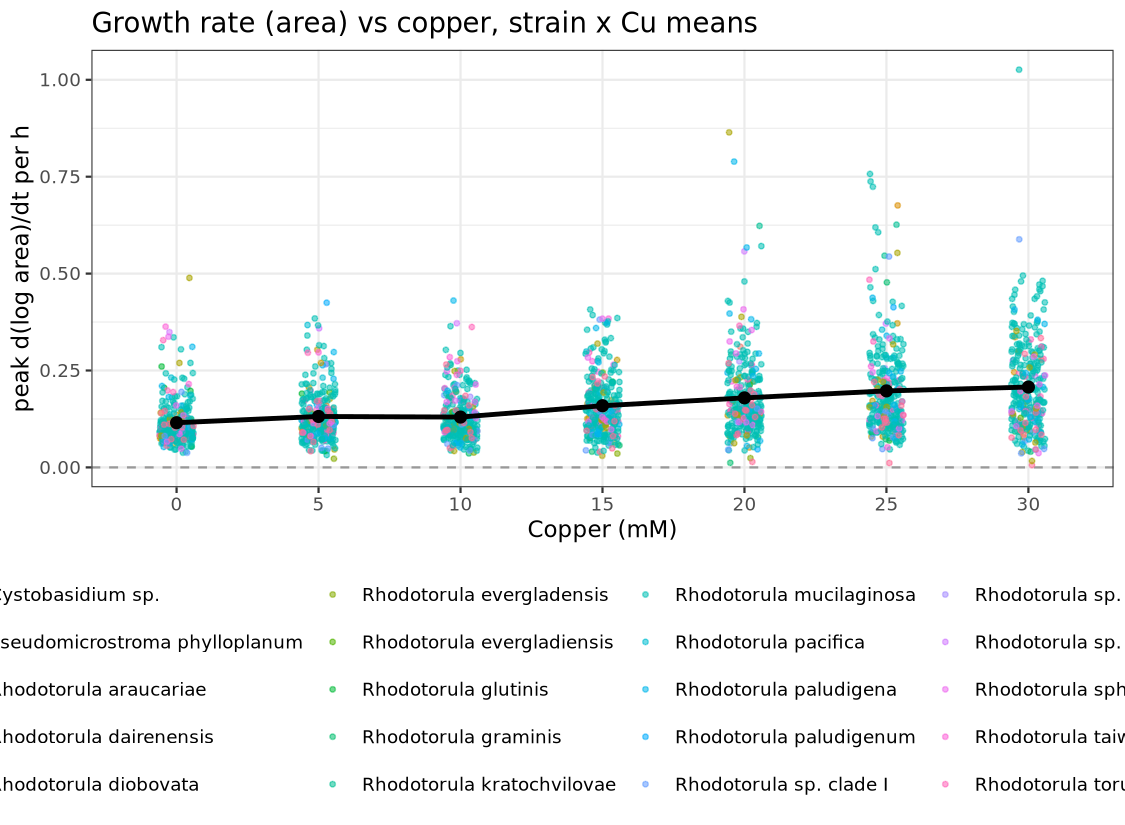
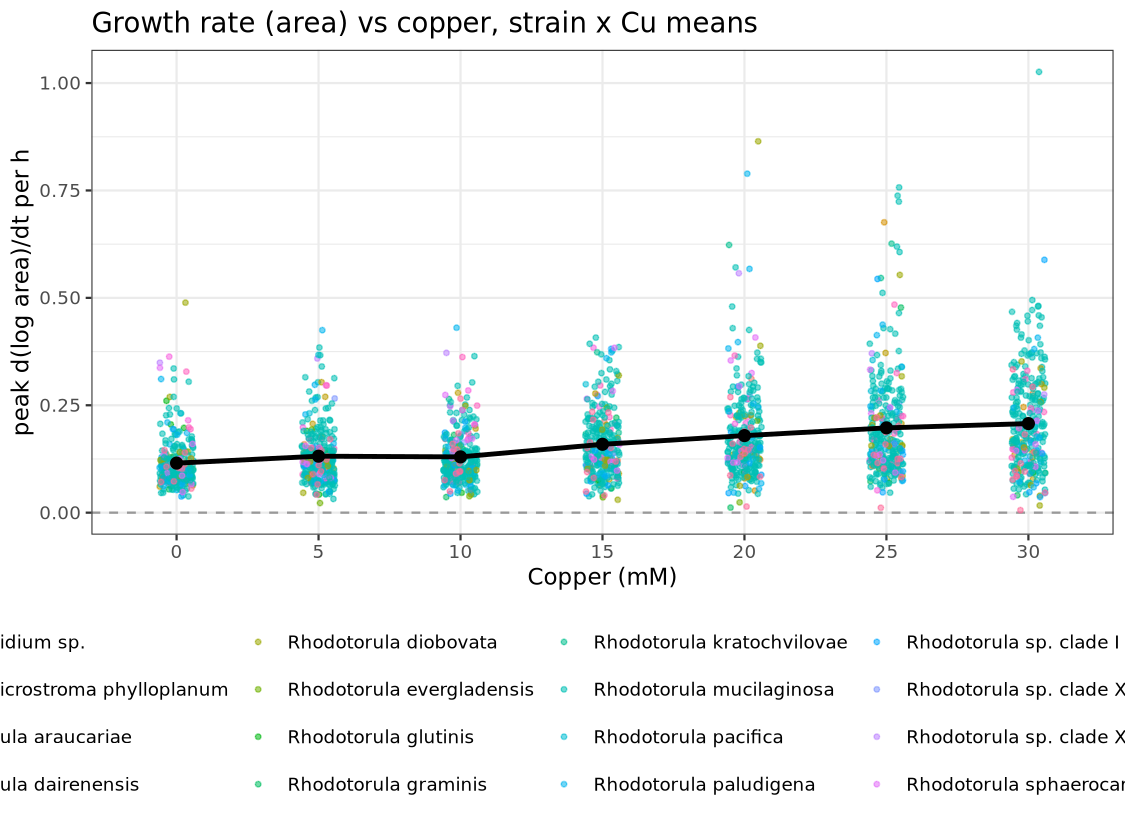
growth rates: propagate species-label corrections; facet top-16 species (4x4) in rate & sensitivity figures
- data/metadata/Copper.Strain_info.csv: fix paludigenum->paludigena (strain 84),
  evergladiensis->evergladensis (strain 327); re-imported into DuckDB
- scripts/db/10_import_experiment.py: strain upsert now DO UPDATE (CSV
  authoritative); add --strain-only sync mode (full re-import is FK-blocked
  once measurements reference imager_run)
- scripts/02,05: fix dead 'R. sp. clade I' filter (was 'R.' prefix, so the
  clade was actually in the interaction model); rate_by_cu_spp, rate_int_by_cu_spp,
  sensitivity_extent_by_cu_spp, sensitivity_saturation_by_cu_spp now facet the
  top-16 species by strain count (4x4 grid) + other/unidentified panel
- regenerate 00-05 + report (html/md/pdf); report/notes updated: paludigena 17
  strains, evergladensis 2, paludigenum value removed from most-sensitive list,
  well-sampled extent model F=4.34 (p~6e-4)
- .living: decision D-4, learning L-7

diff --git a/scripts/db/10_import_experiment.py b/scripts/db/10_import_experiment.py
@@ -51,13 +51,45 @@ def load_plate_run_map(path: str) -> dict[int, tuple[int, int]]:
     }
 
 
+def sync_strain(con, strain_df: pl.DataFrame) -> None:
+    """Upsert the global `strain` table from the strain CSV (CSV authoritative).
+
+    Reruns are idempotent: on a strain_id conflict the metadata columns are
+    refreshed from the CSV, so name/species corrections propagate on re-import.
+    """
+    strain_rows = (
+        strain_df.select(
+            pl.col("Strain ID").alias("strain_id"),
+            pl.col("Strain").alias("strain_code"),
+            pl.col("Strain Name").alias("strain_name"),
+            pl.col("Species").alias("species"),
+            pl.col("Origin").alias("origin"),
+            pl.col("Environment").alias("environment"),
+        )
+        .unique(subset=["strain_id"])
+    )
+    con.execute("CREATE OR REPLACE TEMP TABLE _strain_stage AS SELECT * FROM strain_rows")
+    con.execute(
+        """
+        INSERT INTO strain SELECT * FROM _strain_stage
+        ON CONFLICT (strain_id) DO UPDATE SET
+            strain_code = excluded.strain_code,
+            strain_name = excluded.strain_name,
+            species = excluded.species,
+            origin = excluded.origin,
+            environment = excluded.environment
+        """
+    )
+    print(f"strain: {strain_rows.height} rows staged")
+
+
 def main():
     ap = argparse.ArgumentParser(description=__doc__, formatter_class=argparse.RawDescriptionHelpFormatter)
     ap.add_argument("--db", default=None, help="Path to the DuckDB file (default: db/rhodotorula_phenotypes.duckdb)")
-    ap.add_argument("--experiment-name", required=True)
-    ap.add_argument("--factor-name", required=True, help="e.g. 'Copper concentration', 'Temperature', 'pH'")
+    ap.add_argument("--experiment-name", default=None)
+    ap.add_argument("--factor-name", default=None, help="e.g. 'Copper concentration', 'Temperature', 'pH'")
     ap.add_argument("--factor-unit", default=None, help="e.g. 'mM', 'C', 'pH units'")
-    ap.add_argument("--plate-info-csv", required=True)
+    ap.add_argument("--plate-info-csv", default=None)
     ap.add_argument("--strain-info-csv", required=True)
     ap.add_argument("--plate-number-column", default="Batch Number")
     ap.add_argument("--factor-value-column", default="Concentration (mM)")
@@ -74,6 +106,11 @@ def main():
                      help="CSV with columns plate_number,run_number,configuration -- "
                           "use instead of the block-arithmetic default")
     ap.add_argument("--notes", default=None)
+    ap.add_argument("--strain-only", action="store_true",
+                     help="Sync the global `strain` table from the strain CSV and exit. "
+                          "Use after editing Strain_info.csv (e.g. a species-name fix) without "
+                          "touching imager_run/well_placement, which full re-runs cannot "
+                          "rewrite once measurements reference the runs.")
     args = ap.parse_args()
 
     con = get_connection(args.db)
@@ -87,6 +124,20 @@ def main():
     if n_blank:
         print(f"Dropped {n_blank} fully-blank padding rows from {args.strain_info_csv} "
               f"(Strain ID null) -- {strain_df.height} real strain rows remain")
+
+    if args.strain_only:
+        sync_strain(con, strain_df)
+        con.close()
+        print("Done (strain-only).")
+        return
+
+    missing = [a for a, v in (("--experiment-name", args.experiment_name),
+                              ("--factor-name", args.factor_name),
+                              ("--plate-info-csv", args.plate_info_csv)) if v is None]
+    if missing:
+        con.close()
+        raise SystemExit(f"error: {', '.join(missing)} is required unless --strain-only is set")
+
     plate_df = pl.read_csv(args.plate_info_csv, infer_schema_length=None)
 
     base_run_number = args.base_run_number
@@ -170,26 +221,8 @@ def main():
             [run_number, experiment_id, lp, run_number not in known_run_numbers],
         )
 
-    # --- strain (global, upsert-ignore) --------------------------------------------
-    strain_rows = (
-        strain_df.select(
-            pl.col("Strain ID").alias("strain_id"),
-            pl.col("Strain").alias("strain_code"),
-            pl.col("Strain Name").alias("strain_name"),
-            pl.col("Species").alias("species"),
-            pl.col("Origin").alias("origin"),
-            pl.col("Environment").alias("environment"),
-        )
-        .unique(subset=["strain_id"])
-    )
-    con.execute("CREATE OR REPLACE TEMP TABLE _strain_stage AS SELECT * FROM strain_rows")
-    con.execute(
-        """
-        INSERT INTO strain SELECT * FROM _strain_stage
-        ON CONFLICT (strain_id) DO NOTHING
-        """
-    )
-    print(f"strain: {strain_rows.height} rows staged")
+    # --- strain (global, upsert) --------------------------------------------------
+    sync_strain(con, strain_df)
 
     # --- well_placement --------------------------------------------------------------
     well_rows = strain_df.select(

diff --git a/analysis/growth_rates/growth_rates.md b/analysis/growth_rates/growth_rates.md
@@ -242,14 +242,14 @@ species label).
 
 rate_area: fixed effects (diff vs 0 mM)
 
-| copper_mm |     diff |       se |       lo |       hi | tvalue | pvalue | model    |
-|----------:|---------:|---------:|---------:|---------:|-------:|-------:|:---------|
-|         5 | 0.000631 | 0.000121 | 0.000394 | 0.000867 |   5.23 |  2e-07 | rate_int |
-|        10 | 0.001030 | 0.000122 | 0.000786 | 0.001260 |   8.39 |  0e+00 | rate_int |
-|        15 | 0.001470 | 0.000122 | 0.001230 | 0.001710 |  12.10 |  0e+00 | rate_int |
-|        20 | 0.002400 | 0.000122 | 0.002160 | 0.002630 |  19.60 |  0e+00 | rate_int |
-|        25 | 0.003670 | 0.000123 | 0.003420 | 0.003910 |  29.70 |  0e+00 | rate_int |
-|        30 | 0.005910 | 0.000123 | 0.005670 | 0.006150 |  47.90 |  0e+00 | rate_int |
+| copper_mm |    diff |       se |       lo |       hi | tvalue | pvalue | model    |
+|----------:|--------:|---------:|---------:|---------:|-------:|-------:|:---------|
+|         5 | 0.00063 | 0.000121 | 0.000394 | 0.000867 |   5.23 |  2e-07 | rate_int |
+|        10 | 0.00102 | 0.000122 | 0.000785 | 0.001260 |   8.38 |  0e+00 | rate_int |
+|        15 | 0.00147 | 0.000122 | 0.001230 | 0.001710 |  12.10 |  0e+00 | rate_int |
+|        20 | 0.00240 | 0.000122 | 0.002160 | 0.002630 |  19.60 |  0e+00 | rate_int |
+|        25 | 0.00366 | 0.000123 | 0.003420 | 0.003900 |  29.70 |  0e+00 | rate_int |
+|        30 | 0.00591 | 0.000123 | 0.005670 | 0.006150 |  47.90 |  0e+00 | rate_int |
 
 rate_int vs 0 mM (Wald 95% CI)
 
@@ -267,10 +267,12 @@ observed”.
 
 ![](results/figures/rate_by_cu_spp.png)<!-- -->![](results/figures/rate_int_by_cu_spp.png)<!-- -->
 
-Well-sampled species (\>=8 strains): dairenensis (8), diobovata (10),
-mucilaginosa (216), paludigena (16), sphaerocarpa (8), toruloides (10);
-`R. sp. clade I` excluded from the interaction test (unnamed). The Cu ×
-species interaction test (well-sampled subset) is in
+The species-panel figures facet the top-16 species by strain count (4x4
+grid), plus an “other / unidentified” catch-all panel. Well-sampled
+species (\>=8 strains): dairenensis (8), diobovata (10), mucilaginosa
+(216), paludigena (17), sphaerocarpa (8), toruloides (10);
+`Rhodotorula sp. clade I` excluded from the interaction test (unnamed
+clade). The Cu × species interaction test (well-sampled subset) is in
 `results/tables/rate_models_species_cu.csv/txt`.
 
 ## Doubling-time test: is the copper effect real or a phase artifact?
@@ -326,23 +328,21 @@ fold-change is reported for completeness (~1 expected).
 | species | n_strains | median_extent_ratio | median_log2_extent | median_sat_drop | median_dbl_fold |
 |:---|---:|---:|---:|---:|---:|
 | Rhodotorula kratochvilovae | 3 | 0.0572 | -4.130 | 75.00 | 0.427 |
-| Rhodotorula paludigenum | 1 | 0.0653 | -3.940 | 16.70 | 0.805 |
 | Rhodotorula araucariae | 1 | 0.0779 | -3.680 | 16.10 | 0.805 |
 | Rhodotorula taiwanensis | 6 | 0.1210 | -3.060 | 43.80 | 0.515 |
 | Rhodotorula diobovata | 10 | 0.2510 | -2.000 | 29.20 | 0.810 |
 | Rhodotorula dairenensis | 10 | 0.3800 | -1.520 | 0.00 | 1.090 |
 | Rhodotorula sp. clade XIII | 1 | 0.3590 | -1.480 | 0.00 | 0.986 |
 | Rhodotorula graminis | 4 | 0.3650 | -1.460 | 37.50 | 0.999 |
-| Rhodotorula paludigena | 16 | 0.3790 | -1.400 | 8.75 | 1.050 |
+| Rhodotorula paludigena | 17 | 0.3750 | -1.410 | 12.50 | 1.000 |
 | Rhodotorula sp. clade I | 9 | 0.3920 | -1.350 | 25.00 | 0.972 |
 | Rhodotorula sp. clade XI | 2 | 0.4280 | -1.340 | 18.80 | 1.550 |
 | Cystobasidium sp. | 1 | 0.4600 | -1.120 | 50.00 | 0.874 |
 | Rhodotorula toruloides | 10 | 0.4740 | -1.080 | 16.40 | 0.876 |
 | Rhodotorula sphaerocarpa | 8 | 0.4830 | -1.050 | 9.82 | 1.340 |
 | Rhodotorula mucilaginosa | 217 | 0.6070 | -0.720 | 12.50 | 0.947 |
-| Rhodotorula evergladiensis | 1 | 0.6530 | -0.614 | 0.00 | 1.070 |
+| Rhodotorula evergladensis | 2 | 0.6710 | -0.575 | 14.30 | 0.981 |
 | unknown | 12 | 0.6720 | -0.573 | 12.50 | 0.945 |
-| Rhodotorula evergladensis | 1 | 0.6900 | -0.536 | 28.60 | 0.889 |
 | Pseudomicrostroma phylloplanum | 1 | 0.7640 | -0.388 | 28.60 | 0.919 |
 | Rhodotorula pacifica | 3 | 0.8100 | -0.305 | 12.50 | 1.080 |
 | Rhodotorula glutinis | 3 | 2.0100 | 1.010 | 33.30 | 2.570 |
@@ -353,26 +353,28 @@ sensitive)
 ![](results/figures/sensitivity_species_rank.png)<!-- -->![](results/figures/sensitivity_extent_by_cu_spp.png)<!-- -->![](results/figures/sensitivity_saturation_by_cu_spp.png)<!-- -->
 
 Extent mixed model `log(max_area) ~ Cu x species + (1 | strain_code)` on
-well-sampled species (7,271 colonies): Cu F = 73.0 (p ~ 1.6e-17),
-species F = 29.0, **Cu x species interaction F = 4.35 (p ~ 5.9e-4)** —
+well-sampled species (7,288 colonies): Cu F = 72.9 (p ~ 1.6e-17),
+species F = 30.2, **Cu x species interaction F = 4.34 (p ~ 6.0e-4)** —
 species differ in how copper shrinks final extent.
 
 **Most tolerant (least sensitive):** `R. glutinis` (log2 +1.01), then
 `R. pacifica`, `R. evergladensis`, `Pseudomicrostroma phylloplanum`.
 Among well-sampled taxa, **`R. mucilaginosa` is the most tolerant**
 (log2 = -0.72), then `R. sphaerocarpa` / `R. toruloides` (-1.05/-1.08),
-then `R. paludigena` / `R. dairenensis` (-1.40/-1.52).
+then `R. paludigena` / `R. dairenensis` (-1.41/-1.52).
 
-**Most sensitive:** `R. kratochvilovae` (log2 = -4.13), `R. paludigenum`
-(-3.94), `R. araucariae` (-3.68), `R. taiwanensis` (-3.06); among
-well-sampled, **`R. diobovata` is the most sensitive** (log2 = -2.00).
+**Most sensitive:** `R. kratochvilovae` (log2 = -4.13), `R. araucariae`
+(-3.68), `R. taiwanensis` (-3.06); among well-sampled, **`R. diobovata`
+is the most sensitive** (log2 = -2.00).
 
-*Data-quality note:* the species labels contain apparent near-duplicates
-(`R. paludigenum` vs `R. paludigena`, `R. evergladensis` vs
-`R. evergladiensis`) that were **not** merged — treat single-strain,
-small-n taxa (especially the `R. glutinis` +1.01 and `R. kratochvilovae`
-values, which rest on \<30 colonies) with caution; confirm with
-per-strain tables (`results/tables/strain_sensitivity.csv`).
+*Data-quality note:* two species-name misspellings in the metadata CSV
+(`Rhodotorula paludigenum`, `Rhodotorula evergladiensis`) were corrected
+to `paludigena` / `evergladensis` and re-imported, so strain 84
+(TFCN_43A-0-22) and strain 327 (NRRL_Y-48721) now group with their
+correct species. Small-n, single-strain taxa (especially the
+`R. glutinis` +1.01 and `R. kratochvilovae` values, which rest on \<30
+colonies) still need confirmation — check per-strain tables
+(`results/tables/strain_sensitivity.csv`).
 
 ## Growth-rate × color / light-intensity interaction
 
@@ -387,12 +389,12 @@ analogues)
 
 | term                                  | Estimate | Std..Error | t.value |   Pr…t.. |
 |:--------------------------------------|---------:|-----------:|--------:|---------:|
-| rate_area_ln_area:factor(copper_mm)5  |     3.70 |      0.645 |    5.74 | 0.00e+00 |
-| rate_area_ln_area:factor(copper_mm)10 |     2.91 |      0.688 |    4.23 | 2.41e-05 |
-| rate_area_ln_area:factor(copper_mm)15 |     2.56 |      0.616 |    4.16 | 3.24e-05 |
-| rate_area_ln_area:factor(copper_mm)20 |     1.52 |      0.564 |    2.69 | 7.10e-03 |
-| rate_area_ln_area:factor(copper_mm)25 |     1.78 |      0.547 |    3.25 | 1.15e-03 |
-| rate_area_ln_area:factor(copper_mm)30 |     1.30 |      0.536 |    2.42 | 1.56e-02 |
+| rate_area_ln_area:factor(copper_mm)5  |     3.70 |      0.645 |    5.73 | 0.00e+00 |
+| rate_area_ln_area:factor(copper_mm)10 |     2.90 |      0.688 |    4.22 | 2.44e-05 |
+| rate_area_ln_area:factor(copper_mm)15 |     2.56 |      0.616 |    4.16 | 3.28e-05 |
+| rate_area_ln_area:factor(copper_mm)20 |     1.52 |      0.564 |    2.69 | 7.06e-03 |
+| rate_area_ln_area:factor(copper_mm)25 |     1.78 |      0.547 |    3.25 | 1.16e-03 |
+| rate_area_ln_area:factor(copper_mm)30 |     1.30 |      0.536 |    2.42 | 1.55e-02 |
 
 L\* ~ rate_area x Cu: interaction coefficients
 
@@ -425,9 +427,9 @@ reported in the plate-position analysis. Per-species faceted versions:
   h, fold 0.99 at 30 mM); the copper phenotype is extent/yield-limited
   (saturation 95% -\> 74%, lower max area). Parametric `mu` remains
   unidentifiable in-window.
-- Species labels contain apparent near-duplicates
-  (paludigenum/paludigena, evergladensis/evergladiensis), left unmerged;
-  small-n single-strain taxa need confirmation.
+- Species-name misspellings in the metadata CSV (paludigenum,
+  evergladiensis) have been corrected (paludigena, evergladensis) and
+  re-imported; small-n single-strain taxa still need confirmation.
 - 130 of 2,183 strain-Cu aggregates rest on a single culture (flagged,
   kept).
 - 282 colonies (3.3%) lack a species label -\> `unknown` random-level.

diff --git a/analysis/ANALYSIS_MANIFEST.md b/analysis/ANALYSIS_MANIFEST.md
@@ -52,10 +52,10 @@ input: db/rhodotorula_phenotypes.duckdb (v_phenotype), runs 353-356, per (plate,
 scripts:
   - scripts/00_build_series.R      # per-colony x timepoint table + species join -> colony_growth_series + coverage
   - scripts/01_fit_growth_models.R # Gompertz + Logistic per colony/trait (mu/lambda/A, AIC-preferred), fallback log-linear; primary rate = peak 6 h slope of log(area) [rate_area] and of intensity [rate_int]
-  - scripts/02_species_cu_rates.R  # strain x Cu aggregation (up to 4 run-replicates), mixed models rate ~ Cu(factor) + (1|species/strain), Cu x species interaction (well-sampled spp), contrasts vs 0 mM
+  - scripts/02_species_cu_rates.R  # strain x Cu aggregation (up to 4 run-replicates), mixed models rate ~ Cu(factor) + (1|species/strain), Cu x species interaction (well-sampled spp >= 8 strains, unnamed 'sp. clade I' excluded), contrasts vs 0 mM; rate_by_cu_spp / rate_int_by_cu_spp facet top-16 species (4x4)
   - scripts/03_color_interaction.R # endpoint L*/a*/b* as outcomes of rate_area/rate_int x copper (+ species/strain random); documents L*-Intensity ~0.999 collinearity; also endpoint color (L*/a*/b*) vs Cu plots
   - scripts/04_doubling_time.R     # phase-independent estimator: exponential-region specific rate (best-R2 4-pt window) -> doubling time, t50, saturation fraction; tests whether peak-slope Cu trend persists
-  - scripts/05_species_cu_sensitivity.R # extent/yield-based Cu-sensitivity index per strain & species (log2 max-area ratio 25-30 vs 0-5 mM, saturation drop, dbl fold), species extent model (Cu x species)
+  - scripts/05_species_cu_sensitivity.R # extent/yield-based Cu-sensitivity index per strain & species (log2 max-area ratio 25-30 vs 0-5 mM, saturation drop, dbl fold), species extent model (Cu x species); sensitivity figures facet top-16 species (4x4)
 outputs:
   - results/tables/colony_growth_series.rds/csv
   - results/tables/series_coverage.csv
@@ -102,5 +102,8 @@ key_findings:
   - L* (endpoint) vs Intensity_MeanIntensity r=0.999: same axis; L* is "light intensity"; intensity only used as growth readout.
   - Growth-rate x Cu interaction on endpoint L* significant (F=8.16 p~8e-9): faster-growing colonies end lighter, slope largest at low Cu (5mM +3.7 L*/unit rate) smallest at 30mM (+1.3); Cu dominates chromatic outcome (~1000x F on L*/a*).
   - 8,446 colonies (97.6% of 8,652 design slots; 309 strains, 112 plates); 130/2183 strain-Cu aggregates are single-culture, 282 colonies lack species label (-> unknown level).
+  - Doubling-time test (04): exponential doubling time is flat ~37 h across 0-30 mM (fold-change 0.99 at 30 mM; Kendall tau between peak-slope rate_area and doubling time = 0.002) -> the rising peak-slope with Cu IS A PHASE ARTIFACT. Cu's real effect is extent-limited: saturation fraction 95.4% -> 73.9%, lower max area, median t50 72.6 -> 64.1 h.
+  - Species Cu sensitivity (05, extent-based log2 ratio 25-30/0-5 mM): most tolerant R. glutinis (+1.01) and, among well-sampled, R. mucilaginosa (-0.72); most sensitive R. kratochvilovae (-4.13), R. araucariae (-3.68), R. taiwanensis (-3.06); well-sampled R. diobovata (-2.00). Cu x species interaction on log(max_area) F = 4.34 (p ~ 6.0e-4).
+  - Species mislabels in data/metadata/Copper.Strain_info.csv (paludigenum -> paludigena, evergladiensis -> evergladensis) corrected and re-imported via scripts/db/10_import_experiment.py --strain-only (strain 84 & 327 regrouped).
 tags: [copper, growth-rate, growth-curve, species, mixed-model, lme4, rhodotorula, color, light-intensity, gompertz, logistic, timecourse]
 ```

diff --git a/.living/decisions.md b/.living/decisions.md
@@ -4,6 +4,14 @@ Append-only log of non-obvious decisions and their rationale.
 
 **Entry template:** copy from `skills/core/templates/decision-log-entry.md` (includes Context, Decision, Alternatives considered, Rationale, Consequences, Tags fields).
 
+### [2026-08-15] D-4 — Make strain metadata authoritative over CSV + add `--strain-only` sync to the DB import
+- **Context**: Two species-name misspellings were corrected in `data/metadata/Copper.Strain_info.csv` (`Rhodotorula paludigenum` -> `paludigena`, `Rhodotorula evergladiensis` -> `evergladensis` for strains 84 and 327). The growth-rate analysis joins species from DuckDB `strain`, which had been populated with `ON CONFLICT (strain_id) DO NOTHING`, so the CSV fix did not propagate. A full re-import is impossible in place: measurements reference `imager_run.run_number` via FK, so the imager_run upsert on a populated DB raises a constraint violation.
+- **Decision**: (1) Changed the `strain` upsert to `DO UPDATE SET` for the metadata columns (strain_code, strain_name, species, origin, environment), making the CSV authoritative for strain metadata on re-import; (2) added a `--strain-only` mode to `scripts/db/10_import_experiment.py` that syncs only the global `strain` table from the CSV and exits, avoiding imager_run/well_placement/condition_plate rewrites that FK constraints preclude after measurements load; made experiment-name/factor-name/plate-info-csv optional with a fail-loud guard when not in --strain-only.
+- **Alternatives considered**: Direct one-off `UPDATE` SQL against the two rows (simplest but not reproducible); full DB rebuild from scratch (correct but requires re-importing all 211,800 measurements).
+- **Rationale**: The repository treats the metadata CSVs as source of truth and the DuckDB as a derived store, so sync-on-conflict is the natural semantic; `--strain-only` gives a safe, repeatable path for exactly this class of metadata-correction fix without a full reload.
+- **Consequences**: `strain` rows now refresh from the CSV on any re-import or `--strain-only` run; the analysis pipeline (00-05 + render) was regenerated cleanly with the corrected labels. Minor: curated strain metadata no longer survives a conflicting CSV value (documented trade-off; CSV is authoritative).
+- **Tags**: data, metadata, import, duckdb, strain, copper
+
 ### [2026-08-15] D-3 — Stratify plate-effect variance partition by Copper concentration
 - **Context**: `analysis/explore_plate_position/01_variance_partition.R` estimated a pooled mixed model (`trait ~ copper_mm + grid_row_c + grid_col_c + is_edge + (1|strain_code) + (1|run_number) + (1|plate_id)`) reporting 23% (L*) and 33% (b*) plate-explained variance. Inspection showed `plate_id` is **nested** inside `copper_mm`: every plate was imaged at exactly one Cu level (0 of 112 plates have >1 concentration), so a random slope of Cu within plate is not estimable and the pooled plate term can absorb any non-linear Cu response.
 - **Decision**: Replaced the pooled model with a per-Cu-concentration stratified analysis: fit the variance partition independently within each of the 7 Cu levels (0-30 mM), dropping `copper_mm` (invariant within a stratum), applying the ≥2-plates-per-strain filter within each stratum, plus the categorical row/col robustness check per stratum.

diff --git a/.living/learnings.md b/.living/learnings.md
@@ -51,3 +51,11 @@ Append-only log of gotchas, surprises, and insights.
 - **Resolution**: In Rmds under this repo use doc-relative `results/tables` and keep Unicode to `—` and `×` (what the plate-position report proves pdflatex accepts); else switch the engine. Detect remaining non-ASCII with a quick python one-liner printing U+ codepoints before rendering.
 - **mitigation_type**: structural — a report template/lint for allowed Unicode + doc-relative paths.
 - **Tags**: R, rmarkdown, knitr, working-directory, pdflatex, unicode, reporting
+
+### [2026-08-15] L-7 — a metadata-CSV label fix does NOT propagate to DuckDB: `strain` used `ON CONFLICT DO NOTHING` and full re-import is blocked by FK from measurements to imager_run
+- **Category**: data / DB import
+- **What happened**: Corrected two species-name misspellings in `data/metadata/Copper.Strain_info.csv`, then re-ran `10_import_experiment.py`: (1) the global `strain` upsert was `DO NOTHING`, so existing rows kept the old labels; (2) a full re-import crashed with `Constraint error: key run_number 353 is still referenced by a foreign key` — measurements reference `imager_run.run_number`, so the imager_run upsert cannot mid-flight replace rows already referenced.
+- **Why it matters**: Analyses join species from the DB `strain` table, not from the CSV, so the CSV fix silently had no effect on any downstream output until the DB was updated. And the only "official" propagation path (full re-import) is structurally impossible in place once measurements load.
+- **Resolution**: Switched the `strain` upsert to `DO UPDATE SET` the metadata columns (CSV authoritative) and added `--strain-only` to `10_import_experiment.py` to sync just the strain table without touching imager_run/well_placement; made the previously-required experiment/plate args optional with a fail-loud guard under `--strain-only`. Running `pixi run python scripts/db/10_import_experiment.py --strain-only --strain-info-csv data/metadata/Copper.Strain_info.csv` fixed strains 84 and 327.
+- **mitigation_type**: structural — any metadata edit workflow should use `--strain-only`; the full import is only safe on a fresh DB.
+- **Tags**: data, duckdb, import, metadata, strain, FK, copper

diff --git a/.living/findings/copper-tolerance.md b/.living/findings/copper-tolerance.md
@@ -31,7 +31,9 @@
 
 ## Caveats
 
-- Species labels contain apparent near-duplicates (paludigenum/paludigena,
-  evergladensis/evergladiensis) left unmerged; single-strain, low-n taxa
-  (kratochvilovae, glutinis) need confirmation against per-strain tables.
+- Species labelling: two misspellings in `data/metadata/Copper.Strain_info.csv`
+  (paludigenum, evergladiensis) were corrected to paludigena/evergladensis and
+  re-imported via `10_import_experiment.py --strain-only` (strain 84 and 327
+  regrouped). Remaining caveat: single-strain, small-n taxa (kratochvilovae,
+  glutinis) need confirmation against per-strain tables.
 - High-Cu missingness (~15-18%) is itself part of the sensitivity signal.
